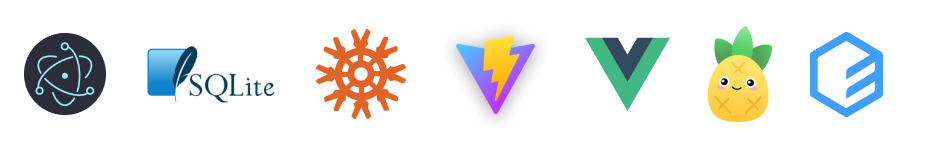
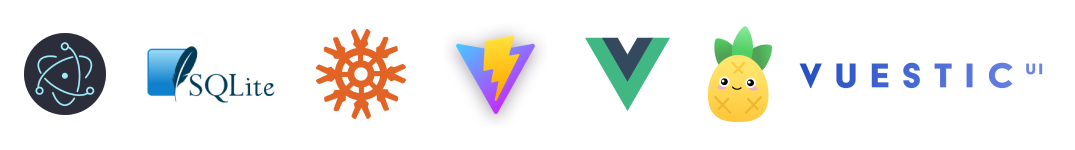
update README

Changed region(s): [[0.0, 0.1867, 0.9676, 0.8267]]

diff --git a/README.md b/README.md
@@ -1,38 +1,37 @@
-# Electron Fullstack Quick Start
+# Electron Fullstack Quick Start (Vuestic as UI Libary)
 
 <img src="public/banner.png"/>
 
 Based on [electron-vite](https://github.com/electron-vite/electron-vite-vue)
 
 ### Preview
-<img src="public/electron-fullstack-quick-start-demo.gif"/>
+<img src="public/electron-fullstack-quick-start-vuestic-demo.png"/>
 
 ### Build with:
 - Typescript
 - JS Framework: [Vue 3](https://github.com/vuejs/vue)
-- State Management: [Pinia]()
+- State Management: [Pinia](https://github.com/vuejs/pinia)
 - Bundle Tooling: [Vite](https://github.com/vitejs/vite)
-- UI Library & Components: [Element Plus](https://github.com/element-plus/element-plus)
-- Icons: [Element Plus Icons](https://github.com/element-plus/element-plus-icons)
+- UI Library & Components: [Vuestic UI](https://github.com/epicmaxco/vuestic-ui)
+- Icons: Material Design Icons
 - Database: Sqlite3
 - Query Builder: [Knex](https://github.com/knex/knex)
 - Logging: [Winston](https://github.com/winstonjs/winston)
 - DateTime library: [dayjs](https://github.com/iamkun/dayjs)
-- Font (Google font Inter) using [vfonts](https://github.com/07akioni/vfonts)
+- Font : Google Font Inter
 - Application Builder: [Electron-builder](https://github.com/electron-userland/electron-builder)
 ### Features
 - Using Vue 3 Composition API
 - Using Context Isolation
-- Light & Dark Theme Support
 
 ## Usage
 1. Clone this repo
 ```bash
-git clone https://github.com/aufarijaal/electron-fullstack-quick-start.git
+git clone https://github.com/aufarijaal/electron-fullstack-quick-start-vuestic
 ```
 2. Go to directory
 ```bash
-cd electron-fullstack-quick-start
+cd electron-fullstack-quick-start-vuestic
 ```
 3. Install dependencies and run the development server
 ```bash
@@ -53,3 +52,7 @@ By default this ESLint configuration is forcing you to use `double quote` and `s
 <br/>
 <br/>
 **How to change application data directory**: By default, application data placed in `$HOME/electron-fullstack-quick-start`. to change, edit the `appDirectory` value in `knexfile/sqlite/knexfile.ts` to your preference. it will automatically created if not exists by the `winston` library ability.
+
+## OTHER UI OPTIONS
+There are some other ui library options for this template. Check below.
+- [Electron Fullstack Quick Start (Element Plus)](https://github.com/aufarijaal/electron-fullstack-quick-start)
